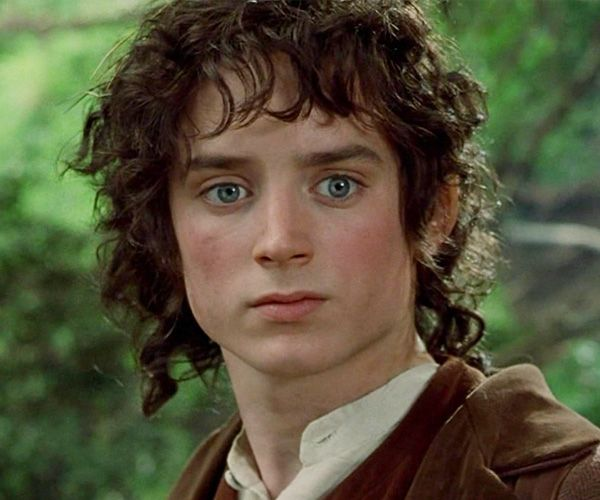
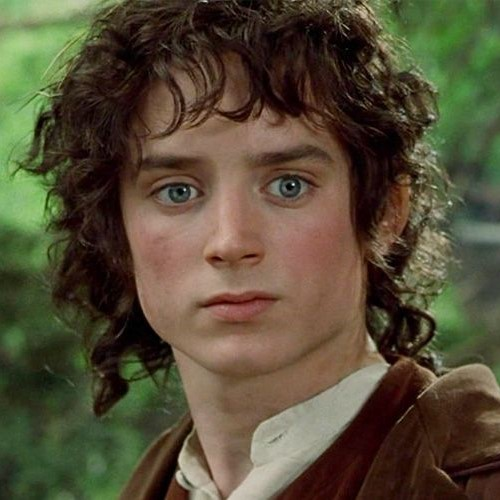
updated mock data

diff --git a/src/main/java/de/pomc/yearbook/dummyData/InMemoryTestingData.java b/src/main/java/de/pomc/yearbook/dummyData/InMemoryTestingData.java
@@ -36,6 +36,8 @@ public class InMemoryTestingData {
     private User legolas;
     private User gimli;
     private User frodo;
+    private User gollum;
+    private User arwin;
 
 
     @EventListener(ApplicationStartedEvent.class)
@@ -46,24 +48,36 @@ public class InMemoryTestingData {
             return;
         }
 
-        sam = new User((long) 1, "Samwise", "Gamgee", "sam.gamgee@shire.com", passwordEncoder.encode("1234"), "USER");
-        gandalf = new User((long) 2, "Gandalf", "the Gray", "gandalf.gray@hotmail.com", passwordEncoder.encode("1234"), "USER");
-        legolas = new User((long) 3, "Legolas", "Son of Thranduil", "legolas@woodland.com", passwordEncoder.encode("1234"), "USER");
-        gimli = new User((long) 4, "Gimli", "Son of Gloin", "gimli.dwarf@blueMountain.com", passwordEncoder.encode("1234"), "USER");
-        frodo = new User((long) 5, "Frodo", "Baggins", "frodo.baggins@shire.com", passwordEncoder.encode("1234"), "USER");
+        sam = new User((long) 1, "Samwise", "Gamgee", "sam.gamgee@shire.com", passwordEncoder.encode("Rosie13#loveyou"), "USER");
+        gandalf = new User((long) 2, "Gandalf", "the Gray", "gandalf.gray@notyetwhite.com", passwordEncoder.encode("ITrustHobbits<3"), "USER");
+        legolas = new User((long) 3, "Legolas", "Son of Thranduil", "legolas@woodland.com", passwordEncoder.encode("TakingTheH0bi!!sToIsengarg"), "USER");
+        gimli = new User((long) 4, "Gimli", "Son of Gloin", "gimli.dwarf@blueMountain.com", passwordEncoder.encode("GaladriellF0rL!fe"), "USER");
+        frodo = new User((long) 5, "Frodo", "Baggins", "frodo.baggins@shire.com", passwordEncoder.encode("SecretSamLover69#"), "USER");
+        gollum = new User((long) 6, "Smeagol", "Gollum", "smeagol@shire.com", passwordEncoder.encode("StabMeKinkra4Real"), "USER");
+        arwin = new User((long) 7, "Arwin", "Undomiell", "arwin@riverdale.com", passwordEncoder.encode("_FuckIm0rtality_"), "USER");
+
         frodo.setRole("ADMIN");
         gandalf.setRole("ADMIN");
 
-        // TODO: refactor this
-        byte[] bookImage = imageLoader.loadImageFromPath("src/main/resources/testingImages/book/graph.jpg");
-        byte[] userImage = imageLoader.loadImageFromPath("src/main/resources/testingImages/user/frodo.jpg");
+        byte[] frodoImage = imageLoader.loadImageFromPath("src/main/resources/testingImages/user/frodo.jpg");
+        byte[] samImage = imageLoader.loadImageFromPath("src/main/resources/testingImages/user/sam.jpg");
+        byte[] gandalfImage = imageLoader.loadImageFromPath("src/main/resources/testingImages/user/gandalf.jpg");
+        byte[] legolasImage = imageLoader.loadImageFromPath("src/main/resources/testingImages/user/legolas.jpg");
+        byte[] gimliImage = imageLoader.loadImageFromPath("src/main/resources/testingImages/user/gimli.jpg");
+        byte[] gollumImage = imageLoader.loadImageFromPath("src/main/resources/testingImages/user/gollum.jpg");
+        byte[] arwinImage = imageLoader.loadImageFromPath("src/main/resources/testingImages/user/arwin.jpg");
 
+        List<User> users = List.of(sam, gandalf, legolas, gimli, frodo, gollum, arwin);
 
-        List<User> users = List.of(sam, gandalf, legolas, gimli, frodo);
+        sam.setImage((samImage));
+        gandalf.setImage((gandalfImage));
+        legolas.setImage((legolasImage));
+        gimli.setImage((gimliImage));
+        frodo.setImage((frodoImage));
+        gollum.setImage((gollumImage));
+        arwin.setImage((arwinImage));
 
-        users.forEach(user -> user.setImage(userImage));
         users.forEach(userService::save);
-
 
         // init books
         if (!bookService.findAll().isEmpty()) {
@@ -72,15 +86,26 @@ public class InMemoryTestingData {
         }
         List<String> questions = List.of("question one", "question two", "question three");
 
-        Book bookOne = new Book("Blue Mountain State 2020", "description", sam, true);
-        Book bookTwo = new Book("HSBA BI '21", "description", gandalf, true);
-        Book bookThree = new Book("Stanford Law '19", "description", legolas, true);
-        Book bookFour = new Book("MIT Robotics 2020", "description", gimli, false);
-        Book bookFive = new Book("NYU Gender Sciences 2019", "description", frodo, false);
+        Book bookOne = new Book("Shire Memories", "what we love about our teletabiland", sam, true);
+        Book bookTwo = new Book("Moria 3019", "worst seafood ever...", gimli, true);
+        Book bookThree = new Book("Weekend in Rivendell", "Veggies make you strong", arwin, true);
+        Book bookFour = new Book("Camping in Lothlorien", "best elvenbread ever", legolas, true);
+        Book bookFive = new Book("Hiking to Mount Doom", "dont loose your rings again!", frodo, false);
         bookOne.setPublished(true);
 
         List<Book> books = List.of(bookOne, bookTwo, bookThree, bookFour, bookFive);
-        books.forEach(book -> book.setImage(bookImage));
+
+        byte[] shireImage = imageLoader.loadImageFromPath("src/main/resources/testingImages/book/shire.jpg");
+        byte[] moriaImage = imageLoader.loadImageFromPath("src/main/resources/testingImages/book/moria.jpg");
+        byte[] rivendellImage = imageLoader.loadImageFromPath("src/main/resources/testingImages/book/riverdale.jpg");
+        byte[] lothlorienImage = imageLoader.loadImageFromPath("src/main/resources/testingImages/book/lothlorien.jpg");
+        byte[] mountDoomImage = imageLoader.loadImageFromPath("src/main/resources/testingImages/book/mountDoom.jpg");
+
+        bookOne.setImage(shireImage);
+        bookTwo.setImage(moriaImage);
+        bookThree.setImage(rivendellImage);
+        bookFour.setImage(lothlorienImage);
+        bookFive.setImage(mountDoomImage);
 
         // init participations
         if (!participationService.findAll().isEmpty()) {
@@ -89,10 +114,8 @@ public class InMemoryTestingData {
         }
 
         List<Participation> bookOneParticipations = List.of(
-                new Participation(sam, false),
-                new Participation(gandalf, false),
-                new Participation(legolas, false),
-                new Participation(gimli, false),
+                new Participation(sam, true),
+                new Participation(gandalf, true),
                 new Participation(frodo, true)
         );
 
@@ -100,8 +123,9 @@ public class InMemoryTestingData {
                 new Participation(sam, true),
                 new Participation(gandalf, true),
                 new Participation(legolas, false),
-                new Participation(gimli, false),
-                new Participation(frodo, true)
+                new Participation(gimli, true),
+                new Participation(frodo, true),
+                new Participation(gollum, false)
         );
 
         List<Participation> bookThreeParticipations = List.of(
@@ -109,12 +133,13 @@ public class InMemoryTestingData {
                 new Participation(gandalf, true),
                 new Participation(legolas, true),
                 new Participation(gimli, false),
-                new Participation(frodo, true)
+                new Participation(frodo, true),
+                new Participation(arwin, true)
         );
 
         List<Participation> bookFourParticipations = List.of(
                 new Participation(sam, false),
-                new Participation(gandalf, false),
+                new Participation(gandalf, true),
                 new Participation(legolas, true),
                 new Participation(gimli, true),
                 new Participation(frodo, false)
@@ -122,18 +147,16 @@ public class InMemoryTestingData {
 
         List<Participation> bookFiveParticipations = List.of(
                 new Participation(sam, false),
-                new Participation(gandalf, false),
-                new Participation(legolas, false),
-                new Participation(gimli, true),
+                new Participation(gollum, false),
                 new Participation(frodo, true)
         );
 
         List<List<Question>> questionsList = List.of(
-                List.of(new Question("What is your favorite movie?"), new Question("What is your favorite book?"), new Question("What is your favorite ice cream flavor")),
-                List.of(new Question("Is cereal soup? Why or why not?"), new Question("What’s the best Wi-Fi name you’ve seen?"), new Question("How do you feel about putting pineapple on pizza?")),
-                List.of(new Question("Toilet paper, over or under?"), new Question("What would be the absolute worst name you could give your child?"), new Question("What sport would be the funniest to add a mandatory amount of alcohol to?")),
-                List.of(new Question("What Part Of Your Body Could Use A Little Lotion?"), new Question("What Part Of The Human Face Is Your Favorite?")),
-                List.of(new Question("If You Could Wedgie Any Historical Figure, Who Would You Pick?"), new Question("Would You Rather Be Able To Breathe Underwater Or Have The Agility Of A Cat?"))
+                List.of(new Question("What was the best birthday party?"), new Question("Where is your favorite pipe smoking spot?"), new Question("Which is your favorite breakfast?")),
+                List.of(new Question("How surprised were you when I opened the gates?"), new Question("Who of you wants to go back with me and search for treasure?"), new Question("Who shit their pants when fighting the Balrock?")),
+                List.of(new Question("Which vegetable did you like best?"), new Question("What happend to Boromir?"), new Question("Who broke Aragon's sword, again?")),
+                List.of(new Question("Who baked the tastiest Lembert bread?"), new Question("Who took the elven cloak?")),
+                List.of(new Question("Who developed arachnophobia after this trip?"), new Question("What is your opinion about potatoes?"))
         );
 
         List<List<Participation>> bookParticipations = List.of(bookOneParticipations, bookTwoParticipations, bookThreeParticipations, bookFourParticipations, bookFiveParticipations);
@@ -177,7 +200,7 @@ public class InMemoryTestingData {
     private void addAnswers(Participation participation) {
         // add answers
         List<Answer> answers = List.of(
-            new Answer("answer 1"), new Answer("answer 2")
+                new Answer("answer 1"), new Answer("answer 2")
         );
         participationService.setAnswers(participation, answers);
     }

diff --git a/src/main/java/de/pomc/yearbook/config/AddInterceptors.java b/src/main/java/de/pomc/yearbook/config/AddInterceptors.java
@@ -17,7 +17,7 @@ public class AddInterceptors implements WebMvcConfigurer {
 
     @Override
     public void addInterceptors(InterceptorRegistry registry) {
-        registry.addInterceptor(new UserImageHandlerInterceptor(userService));
+        //registry.addInterceptor(new UserImageHandlerInterceptor(userService));
         registry.addInterceptor(new LanguageCookieHandlerInterceptor());
     }
 }
